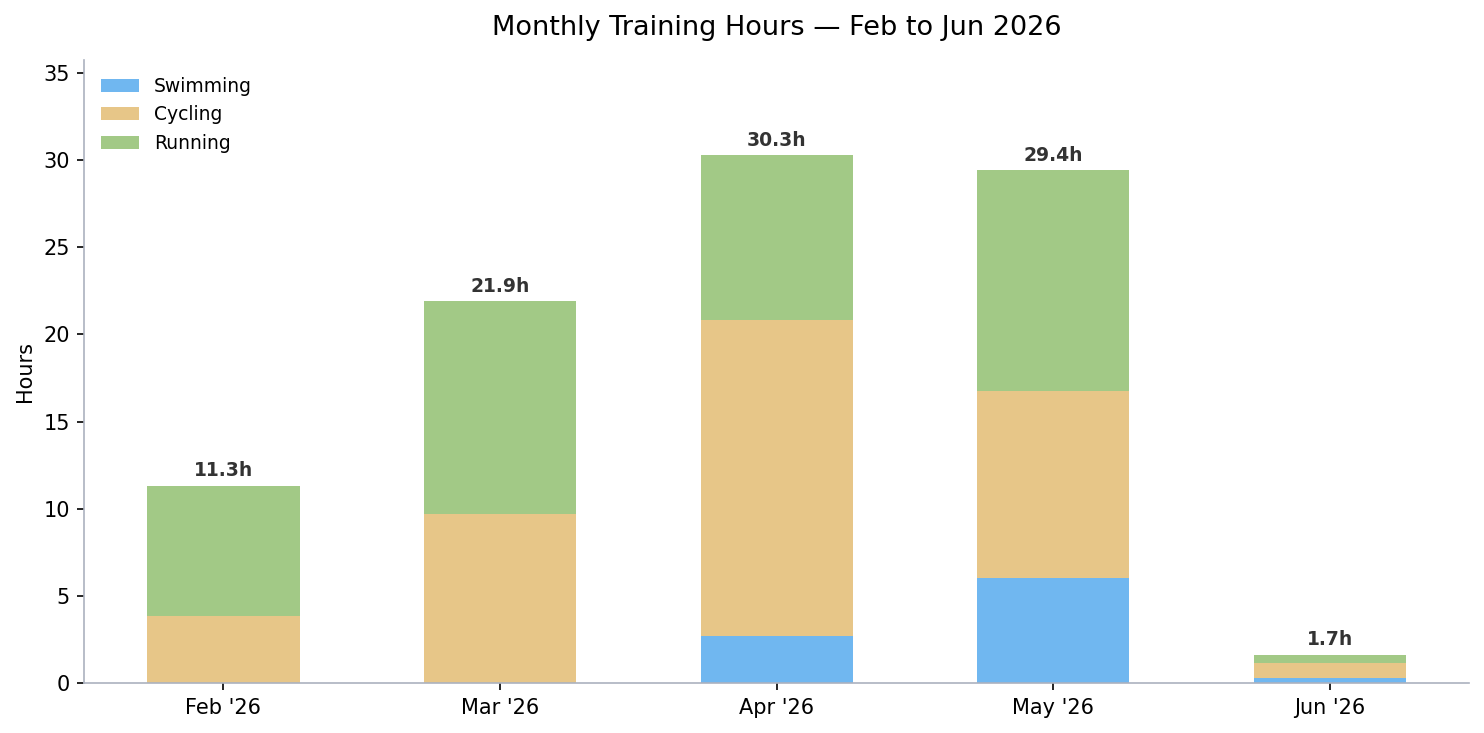
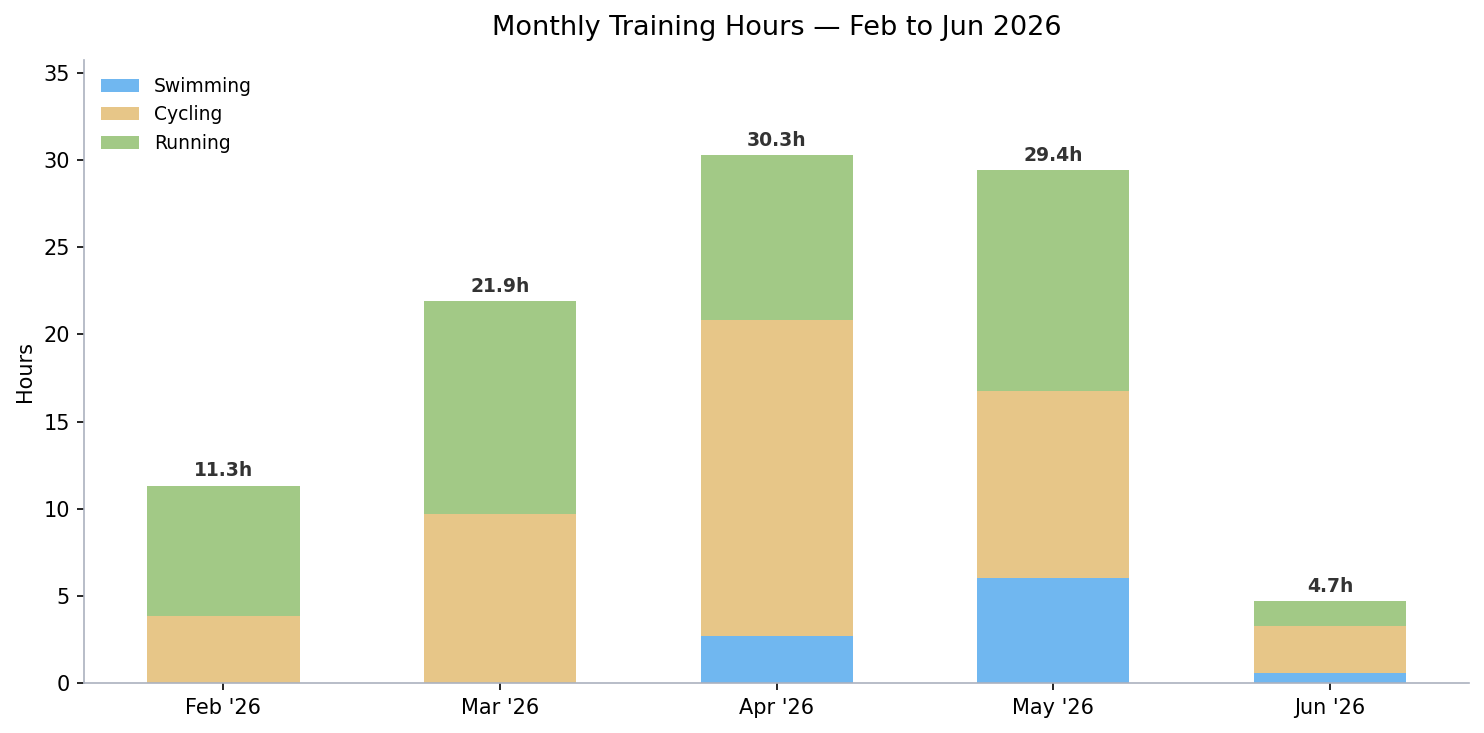
Update Bonn 2026 training stats with tapering week and race data

Changed region(s): [[0.8369, 0.7804, 0.9609, 0.9304]]

diff --git a/2026/06_ryzon_bonn_triathlon/README.md b/2026/06_ryzon_bonn_triathlon/README.md
@@ -28,12 +28,12 @@ No structured training plan was followed. Training cycle started in **February 2
 Training volume (Feb–Jun 2026, 18-week cycle):
 | Sport    | Sessions | Performed (min) | Hours | Avg h/week |
 | -------- | -------- | --------------- | ----- | ---------- |
-| Swimming |    11    |      545        |  9.1h |    0.5h    |
-| Cycling  |    31    |    2,596        | 43.3h |    2.4h    |
-| Running  |    48    |    2,535        | 42.2h |    2.3h    |
-| All      |    90    |    5,676        | 94.6h |    5.2h    |
+| Swimming |    12    |      562        |  9.4h |    0.5h    |
+| Cycling  |    34    |    2,705        | 45.1h |    2.5h    |
+| Running  |    50    |    2,594        | 43.2h |    2.4h    |
+| All      |    96    |    5,861        | 97.7h |    5.4h    |
 
-Average of **5.2 hours per week**.
+Average of **5.4 hours per week**.
 
 ![Monthly Training Hours](/2026/06_ryzon_bonn_triathlon/image/activity_monthly_hours.png)
 
@@ -43,10 +43,10 @@ Average of **5.2 hours per week**.
 
 ### Key Insights (swimming)
 
-- **Swimming was the neglected discipline**: 0 swim sessions in Feb–Mar, then 10 in Apr–May — a very late start for a 4.2km open-water race (the longest swim distance tackled in training was ~3.4km);
-- **Cycling and running were nearly equal in volume**: 43.3h vs 42.2h, each around 45% of total training time; swimming got only 10%;
+- **Swimming was the neglected discipline**: 0 swim sessions in Feb–Mar, then 12 across Apr–Jun (4 · 6 · 2) — a very late start for a 4.2km open-water race (the longest swim distance tackled in training was ~3.4km);
+- **Cycling and running were nearly equal in volume**: 45.1h vs 43.2h, roughly 46% and 44% of total training time; swimming got only ~10%;
 - **April was the peak month**: 30.3h total (18.1h cycling alone, 13 bike sessions) — a large volume spike after a low-output winter;
-- **Volume was roughly half of the previous triathlon cycle**: compared to Challenge Almere 2025 (94.6h vs 138h, 5.2h/week vs 11.5h/week with a structured plan).
+- **Volume was roughly half of the previous triathlon cycle**: compared to Challenge Almere 2025 (97.7h vs 138h, 5.4h/week vs 11.5h/week with a structured plan).
 
 ## Sleep Analysis (Sep 2025 – May 2026)
 